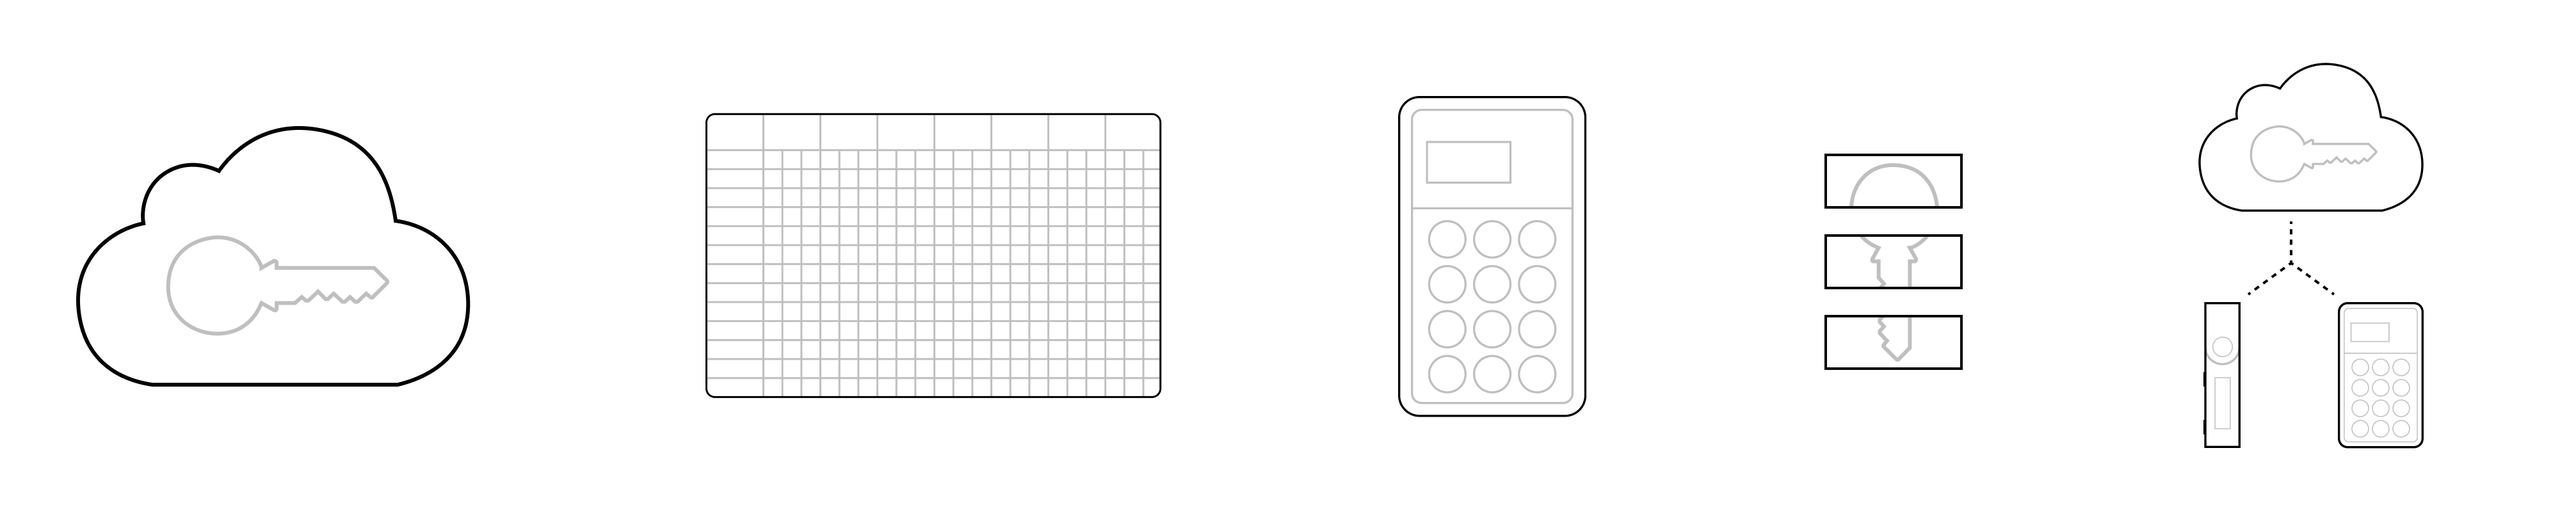
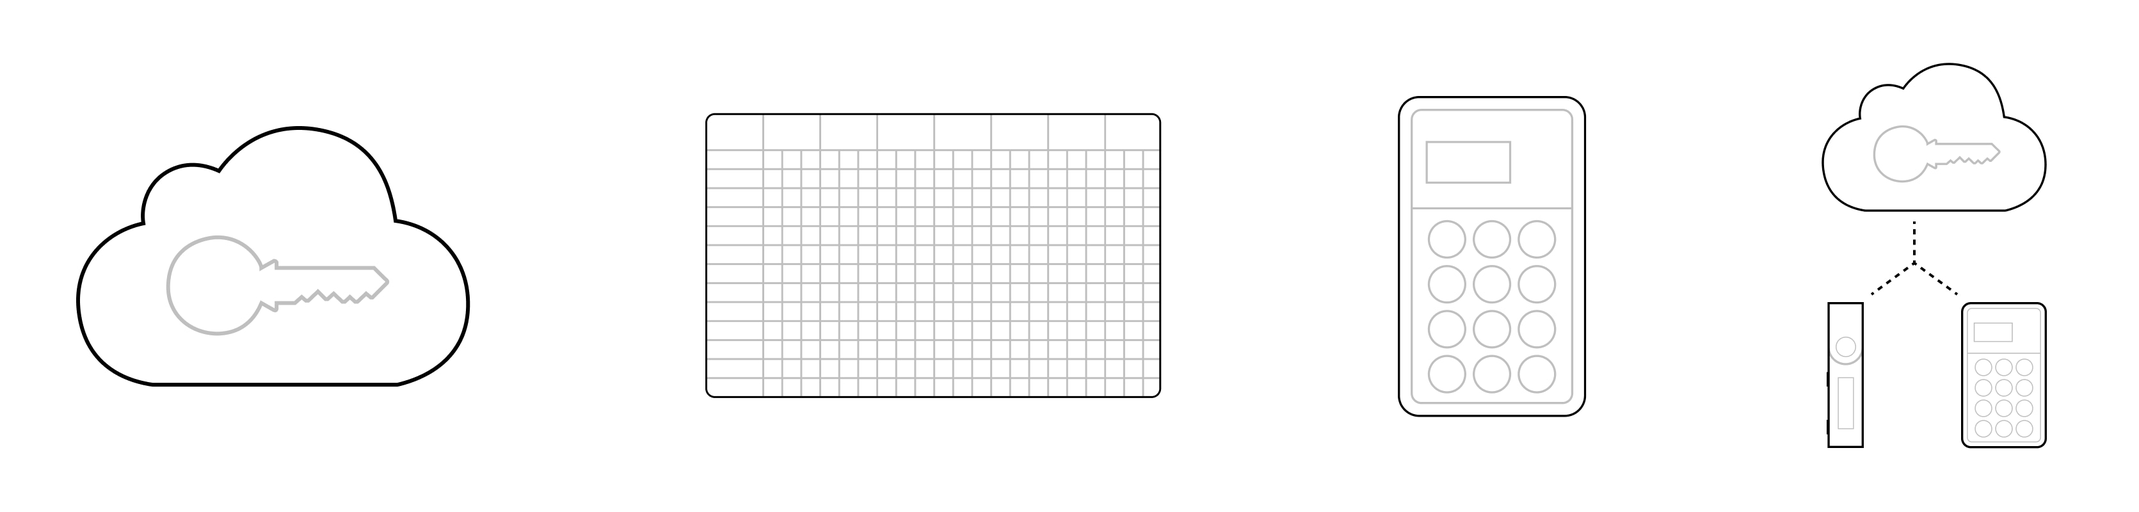
Replace illustration that included split keys

diff --git a/guide/private-key-management/overview.md b/guide/private-key-management/overview.md
@@ -96,7 +96,7 @@ Now let's dive in and look at the various schemes that might be suitable for a p
    image = "/assets/images/guide/private-key-management/schemes/personal-schemes.jpg"
    retina = "/assets/images/guide/private-key-management/schemes/personal-schemes@2x.jpg"
    alt-text = ""
-   caption = "Cloud backup, manual backup , signing-device, threshold-signatures and multi-key."
+   caption = "Cloud backup, manual backup , signing-device and multi-key."
    width = 2012
    height = 400
 %}
